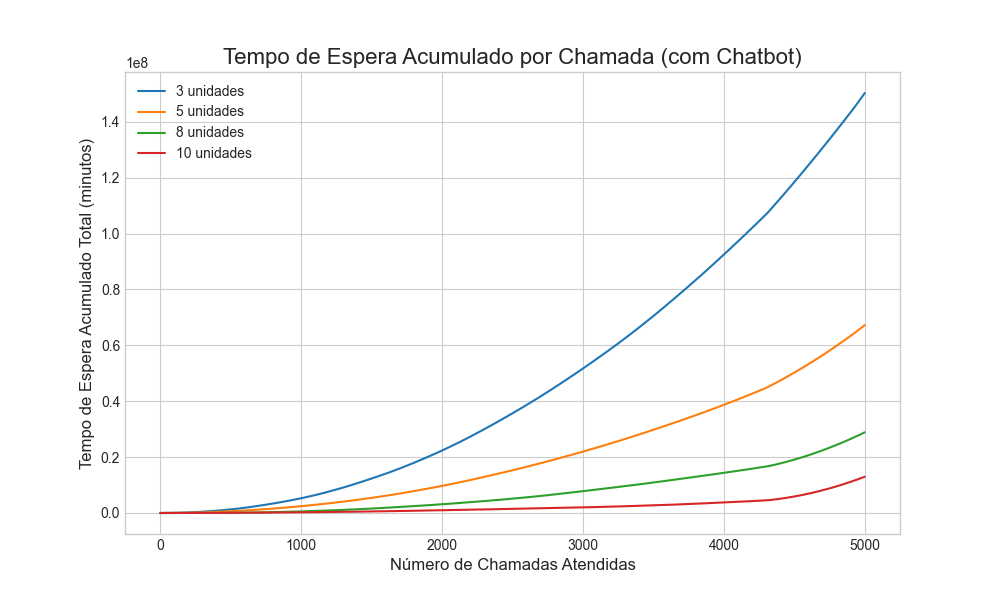
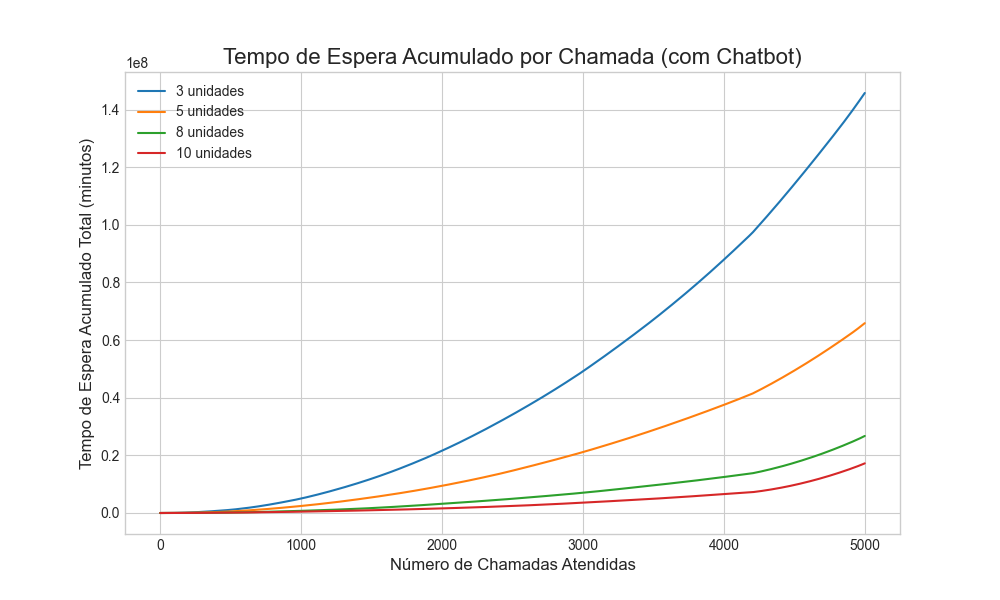
fix: atualizando plots com simulacao de chamadas paralelas

diff --git a/src/simulation/environment.py b/src/simulation/environment.py
@@ -1,3 +1,4 @@
+# src/simulation/environment.py
 import simpy
 import numpy as np
 
@@ -8,44 +9,51 @@ def get_random_time(distribution_tuple):
 
 class CentralDeEmergencia:
     """
-    Usa PriorityResource para filas com prioridade.
+    O único recurso com fila são as unidades de bombeiros.
     """
-    def __init__(self, env, num_unidades):
-        self.chatbot_resource = simpy.PriorityResource(
-                                                        env, 
-                                                        capacity=1)
-        self.bombeiros = simpy.PriorityResource(env, 
-                                                capacity=num_unidades)
+    def __init__(self, env, num_bombeiros):
+        self.bombeiros = simpy.PriorityResource(env, capacity=num_bombeiros)
 
 def chamada(env, nome, central, agente_ia, cenario, distributions, stats_locais):
     """
-    Processo que simula a jornada de uma chamada.
+    Processo que simula a jornada completa de uma chamada.
     """
+    stats_locais['total_chamadas'] += 1
     tempo_chegada = env.now
     
-    # Etapa 1: Classificação e Triagem pelo Agente de IA
+    # Etapa 1: Triagem imediata pelo Agente de IA, que usa o modelo de ML internamente.
     resultado_agente = agente_ia.classify_call(cenario['texto'])
     prioridade = 3 - resultado_agente['info_extraida'].get('original_priority', 2)
     
     print(f"{env.now:.2f}: {nome} (Prioridade {prioridade}) chega.")
 
-    # Etapa 2: Atendimento Inicial (Chatbot ou Humano)
-    # Modelamos o tempo de atendimento inicial, que não depende de um recurso com fila
-    if resultado_agente['decisao_final'] == 'Complexo':
-        stats_locais['chamadas_complexas'] += 1
-        print(f"{env.now:.2f}: {nome} (Complexo) sendo atendido por humano.")
-        # Tempo de atendimento do operador para casos complexos
-        yield env.timeout(get_random_time(distributions['atendimento_operador']))
-    else:
+    # --- NOVA LÓGICA DE ROTEAMENTO BASEADA NO MODELO CLASSIFICADOR ---
+    
+    # O agente já nos deu a decisão final ("Simples" ou "Complexo")
+    decisao_modelo = resultado_agente['decisao_final']
+    
+    if decisao_modelo == 'Simples':
         stats_locais['chamadas_simples'] += 1
-        print(f"{env.now:.2f}: {nome} (Simples) sendo atendido por chatbot.")
-        # Tempo de atendimento 50% mais rápido para o chatbot
-        tempo_atendimento_chatbot = get_random_time(distributions['atendimento_operador']) * 0.5
-        yield env.timeout(tempo_atendimento_chatbot)
+        print(f"{env.now:.2f}: {nome} (Classificado como Simples) sendo atendido por chatbot...")
         
-    print(f"{env.now:.2f}: {nome} informações coletadas. Entra na fila para bombeiros.")
+        # Simula o tempo de atendimento do chatbot para coletar informações.
+        tempo_atendimento = get_random_time(distributions['atendimento_operador']) * 0.5
+        yield env.timeout(tempo_atendimento)
+        
+        print(f"{env.now:.2f}: {nome} (Simples) entra na fila para despacho.")
+        
+    else: # Se a decisão do modelo for 'Complexo'
+        stats_locais['chamadas_complexas'] += 1
+        print(f"{env.now:.2f}: {nome} (Classificado como Complexo) sendo atendido por humano...")
+        
+        # Simula o tempo de atendimento de um operador humano.
+        yield env.timeout(get_random_time(distributions['atendimento_operador']))
+        
+        print(f"{env.now:.2f}: {nome} (Complexo) entra na fila para despacho.")
 
-    # Etapa 3: Fila e Serviço dos Bombeiros
+    # --- ETAPA COMUM: Fila e Serviço dos Bombeiros ---
+    # Todas as chamadas, simples ou complexas, que precisam de uma unidade, chegam aqui.
+    
     tempo_entrada_fila_bombeiros = env.now
     with central.bombeiros.request(priority=prioridade) as req_bombeiros:
         yield req_bombeiros
@@ -53,13 +61,11 @@ def chamada(env, nome, central, agente_ia, cenario, distributions, stats_locais)
         
         print(f"{env.now:.2f}: {nome} é atendido pelos bombeiros.")
         
-        # O tempo de serviço que OCUPA a unidade é apenas o tempo no local
         tempo_servico = get_random_time(distributions['servico_bombeiros'])
         stats_locais['tempos_servico_bombeiros'].append(tempo_servico)
         yield env.timeout(tempo_servico)
         
     stats_locais['tempos_atendimento_total'].append(env.now - tempo_chegada)
-    stats_locais['total_chamadas'] += 1
     print(f"{env.now:.2f}: {nome} finaliza o atendimento.")
 
 def gerador_de_chamadas(env, central, agente_ia, cenarios, distributions, stats_locais):
@@ -68,23 +74,24 @@ def gerador_de_chamadas(env, central, agente_ia, cenarios, distributions, stats_
     """
     for i, cenario_texto in enumerate(cenarios):
         yield env.timeout(get_random_time(distributions['chegadas']))
-        
         cenario_completo = {"texto": cenario_texto, "id": i+1}
-        
         env.process(chamada(env, f'Chamada-{i+1}', central, agente_ia, cenario_completo, distributions, stats_locais))
 
-def run_simulation(num_unidades, agente_ia, cenarios, distributions):
+def run_simulation(num_bombeiros, agente_ia, cenarios, distributions):
     """
     Configura e executa um cenário completo de simulação.
     """
     stats_locais = {
-        'total_chamadas': 0, 'chamadas_simples': 0, 'chamadas_complexas': 0,
-        'tempos_espera_chatbot': [], 'tempos_espera_bombeiros': [],
-        'tempos_atendimento_total': [], 'tempos_servico_bombeiros': []
+        'total_chamadas': 0, 
+        'chamadas_simples': 0, 
+        'chamadas_complexas': 0,
+        'tempos_espera_bombeiros': [],
+        'tempos_atendimento_total': [],
+        'tempos_servico_bombeiros': []
     }
     
     env = simpy.Environment()
-    central = CentralDeEmergencia(env, num_unidades)
+    central = CentralDeEmergencia(env, num_bombeiros)
     env.process(gerador_de_chamadas(env, central, agente_ia, cenarios, distributions, stats_locais))
     env.run()
     

diff --git a/main.py b/main.py
@@ -1,3 +1,4 @@
+# main.py
 import pandas as pd
 import numpy as np
 import os
@@ -16,7 +17,7 @@ def main():
     """
     print("--- INICIANDO PROJETO DE SIMULAÇÃO DE ATENDIMENTO DE EMERGÊNCIA ---")
     
-    # 1. Carregar e preparar os dados
+    # 1. Carregar e preparar os dados para análise
     print("\n[ETAPA 1/5] Carregando e preparando dados para análise...")
     try:
         df = pd.read_csv(config.DATASET_PATH, engine='python')
@@ -25,25 +26,22 @@ def main():
         for col in timestamp_cols:
             df[col] = pd.to_datetime(df[col], errors='coerce')
         
-        df.dropna(subset=timestamp_cols + ['Call Type Group', 'Final Priority'], inplace=True)
+        df.dropna(subset=timestamp_cols, inplace=True)
         
     except FileNotFoundError:
-        print(f"ERRO: Dataset não encontrado em '{config.DATASET_PATH}'.")
+        print(f"ERRO: Dataset não encontrado em '{config.DATASET_PATH}'. Verifique o caminho.")
         return
 
     # 2. Encontrar as melhores distribuições de probabilidade
     print("\n[ETAPA 2/5] Analisando distribuições de probabilidade dos tempos...")
     
-    # Tempo entre chegadas
     df.sort_values('Received DtTm', inplace=True)
     df['tempo_entre_chegadas'] = df['Received DtTm'].diff().dt.total_seconds() / 60.0
     dist_chegadas = find_best_distribution(df[df['tempo_entre_chegadas'] > 0]['tempo_entre_chegadas'].rename("Tempo entre Chegadas"))
     
-    # Tempo de Serviço dos Bombeiros (APENAS no local)
     df['on_scene_time'] = (df['Available DtTm'] - df['On Scene DtTm']).dt.total_seconds() / 60.0
     dist_servico_bombeiros = find_best_distribution(df[df['on_scene_time'] > 0]['on_scene_time'].rename("Tempo de Serviço no Local"))
     
-    # Tempo de Atendimento do Operador (Humano ou Chatbot)
     df['operator_duration'] = (df['Entry DtTm'] - df['Received DtTm']).dt.total_seconds() / 60.0
     dist_atendimento_operador = find_best_distribution(df[df['operator_duration'] > 0]['operator_duration'].rename("Duração Atendimento Operador"))
     
@@ -59,8 +57,8 @@ def main():
     
     dists = {
         "chegadas": dist_chegadas,
+        "atendimento_operador": dist_atendimento_operador,
         "servico_bombeiros": dist_servico_bombeiros,
-        "atendimento_operador": dist_atendimento_operador
     }
     
     for n_unidades in config.CENARIOS_UNIDADES:
@@ -84,12 +82,13 @@ def main():
     
     tabela_resumo = []
     for n_unidades, data in all_results.items():
-        tempo_servico = np.mean(data.get('tempos_servico_bombeiros', [0]))
         tabela_resumo.append({
             'Unidades': n_unidades,
-            'Chamadas atendidas': data.get('total_chamadas', 0),
+            'Chamadas Atendidas': data.get('total_chamadas', 0),
+            'Simples (Chatbot)': data.get('chamadas_simples', 0),
+            'Complexas (Humano)': data.get('chamadas_complexas', 0),
             'Tempo médio de espera (min)': np.mean(data.get('tempos_espera_bombeiros', [0])),
-            'Tempo médio de serviço (min)': tempo_servico
+            'Tempo médio de serviço (min)': np.mean(data.get('tempos_servico_bombeiros', [0]))
         })
     df_resumo = pd.DataFrame(tabela_resumo)
     print("\n--- Tabela de Resumo dos Resultados (com Chatbot) ---")
